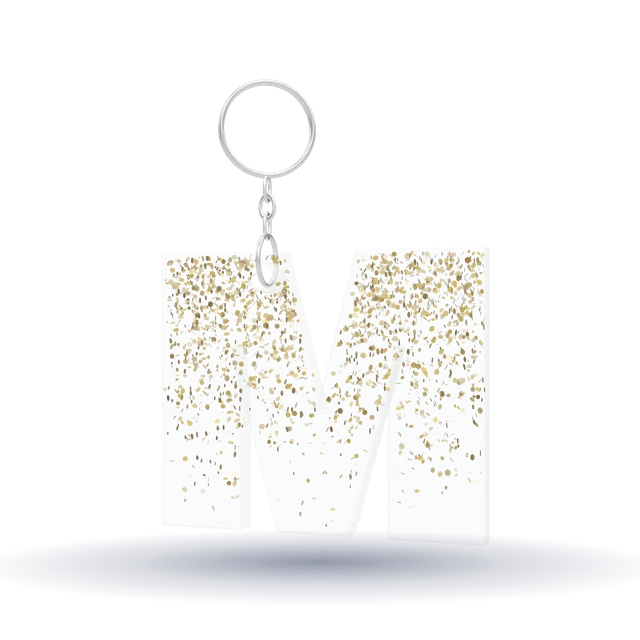
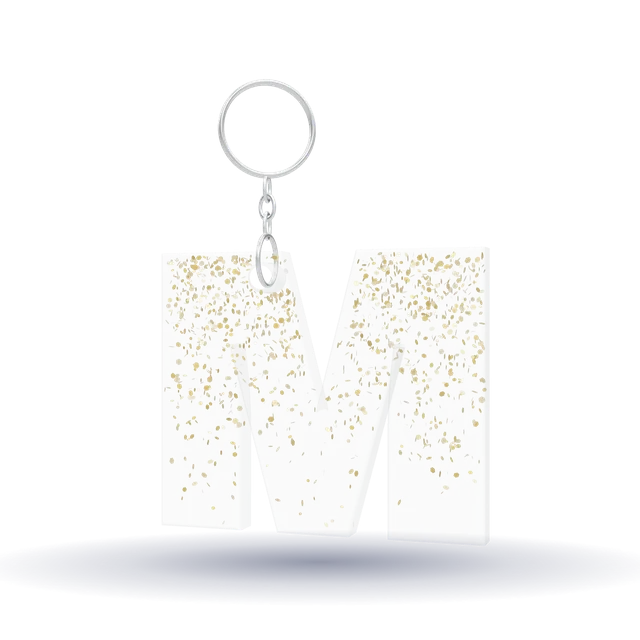
Real prices; shaped keychains match the molds
- Personalized Keychains 119; Pens 149
- Shaped Keychains: Circle 89, Square 89, Rectangle 99 (new), Half Moon 49 (new),
  Diamond 49, Heart (Special) 149; star and teardrop removed
- Each shape shows its price in the builder; cards show "from" prices
- Shaped Keychains card image is now the heart

Changed region(s): [[0.25, 0.375, 0.7812, 0.7812]]

diff --git a/src/data.js b/src/data.js
@@ -43,11 +43,12 @@ function starPath(cx, cy, R, r) {
 
 // Small keychain shapes (from the little shapes mold)
 export const shapes = [
-  { id: 'circle', name: 'Circle', d: 'M200 50 A150 150 0 1 1 199.9 50 Z', hole: [200, 92], inStock: true },
-  { id: 'square', name: 'Square', d: 'M90 60 H310 Q340 60 340 90 V310 Q340 340 310 340 H90 Q60 340 60 310 V90 Q60 60 90 60 Z', hole: [200, 102], inStock: true },
-  { id: 'star', name: 'Star', d: starPath(200, 205, 165, 72), hole: [200, 112], inStock: true },
-  { id: 'diamond', name: 'Diamond', d: 'M200 38 L342 200 L200 362 L58 200 Z', hole: [200, 112], inStock: true },
-  { id: 'drop', name: 'Teardrop', d: 'M200 40 C272 140 332 200 332 255 C332 325 272 362 200 362 C128 362 68 325 68 255 C68 200 128 140 200 40 Z', hole: [200, 118], inStock: true },
+  { id: 'circle', name: 'Circle', price: 89, d: 'M200 50 A150 150 0 1 1 199.9 50 Z', hole: [200, 92], inStock: true },
+  { id: 'square', name: 'Square', price: 89, d: 'M90 60 H310 Q340 60 340 90 V310 Q340 340 310 340 H90 Q60 340 60 310 V90 Q60 60 90 60 Z', hole: [200, 102], inStock: true },
+  { id: 'rectangle', name: 'Rectangle', price: 99, d: 'M125 30 H275 Q300 30 300 55 V345 Q300 370 275 370 H125 Q100 370 100 345 V55 Q100 30 125 30 Z', hole: [200, 72], inStock: true },
+  { id: 'halfmoon', name: 'Half Moon', price: 49, d: 'M302 60 A150 150 0 1 0 302 340 A160 160 0 0 1 302 60 Z', hole: [168, 112], inStock: true },
+  { id: 'diamond', name: 'Diamond', price: 49, d: 'M200 38 L342 200 L200 362 L58 200 Z', hole: [200, 112], inStock: true },
+  { id: 'heart', name: 'Heart (Special)', price: 149, d: 'M200 350 C60 250 38 150 88 104 C135 62 192 84 200 130 C208 84 265 62 312 104 C362 150 340 250 200 350 Z', hole: [132, 126], inStock: true },
 ];
 
 // Big moulds: coasters & platters (no keyring)
@@ -66,16 +67,16 @@ export const categories = [
     blurb: 'Pick your letter, your colour, your sparkle.',
     tag: 'Most loved',
     kind: 'letter',
-    price: 149,
+    price: 119,
     sample: { value: 'M', color: 'clear', glitter: 'gold-glitter' },
   },
   {
     id: 'shapes',
     title: 'Shaped Keychains',
-    blurb: 'Stars, drops, diamonds and more.',
+    blurb: 'Hearts, half moons, diamonds and more.',
     kind: 'shape',
-    price: 149,
-    sample: { value: 'star', color: 'white', glitter: 'rosegold-foil' },
+    price: 89,
+    sample: { value: 'heart', color: 'white', glitter: 'rosegold-foil' },
   },
   {
     id: 'pens',
@@ -106,7 +107,7 @@ export const defaultItem = (categoryId, name = '') => {
   return {
     category: categoryId,
     kind: c.kind,
-    value: c.kind === 'letter' ? initialOf(name) : c.kind === 'shape' ? 'star' : c.kind === 'plate' ? 'hexagon' : c.kind,
+    value: c.kind === 'letter' ? initialOf(name) : c.kind === 'shape' ? 'heart' : c.kind === 'plate' ? 'hexagon' : c.kind,
     color: 'pink',
     glitter: 'gold-foil',
     placement: 'top',

diff --git a/vite.config.js b/vite.config.js
@@ -63,7 +63,7 @@ function devApi(env) {
 
 // SEO at build time: structured data (store + products with current prices from src/data.js) and sitemap.xml
 const SITE = 'https://crystanva.vercel.app';
-const CARD_IMAGES = { personal: 'letter_M_clear_gold-glitter_top', shapes: 'shape_star_white_rosegold-foil_top', pens: 'pen_pen_clear_gold-glitter_top', plates: 'plate_hexagon_white_gold-foil_top' };
+const CARD_IMAGES = { personal: 'letter_M_clear_gold-glitter_top', shapes: 'shape_heart_white_rosegold-foil_top', pens: 'pen_pen_clear_gold-glitter_top', plates: 'plate_hexagon_white_gold-foil_top' };
 function seo() {
   const today = new Date().toISOString().slice(0, 10);
   const jsonLd = {

diff --git a/src/pages/Builder.jsx b/src/pages/Builder.jsx
@@ -50,6 +50,7 @@ export default function Builder({ item, setItem, next, back }) {
                 <button key={s.id} disabled={!s.inStock} className={`shape ${item.value === s.id ? 'on' : ''}`} onClick={() => set({ value: s.id })}>
                   <svg viewBox="0 0 400 400"><path d={s.d} /></svg>
                   <span>{s.name}</span>
+                  <small className="shape-price">₹{priceOf({ ...item, value: s.id, floral: false })}</small>
                 </button>
               ))}
             </div>

diff --git a/src/styles.css b/src/styles.css
@@ -651,3 +651,5 @@ h1, h2, h3 { font-weight: 500; }
 .yesno { display: grid; grid-template-columns: 1fr 1fr; gap: 10px; }
 .yn-icon { font-size: 22px; line-height: 1; color: var(--teal-2); }
 .placement.on .yn-icon { color: var(--purple); }
+.shape-price { font-size: 12px; font-weight: 700; color: var(--teal-2); margin-top: -2px; }
+.shape.on .shape-price { color: var(--purple); }
